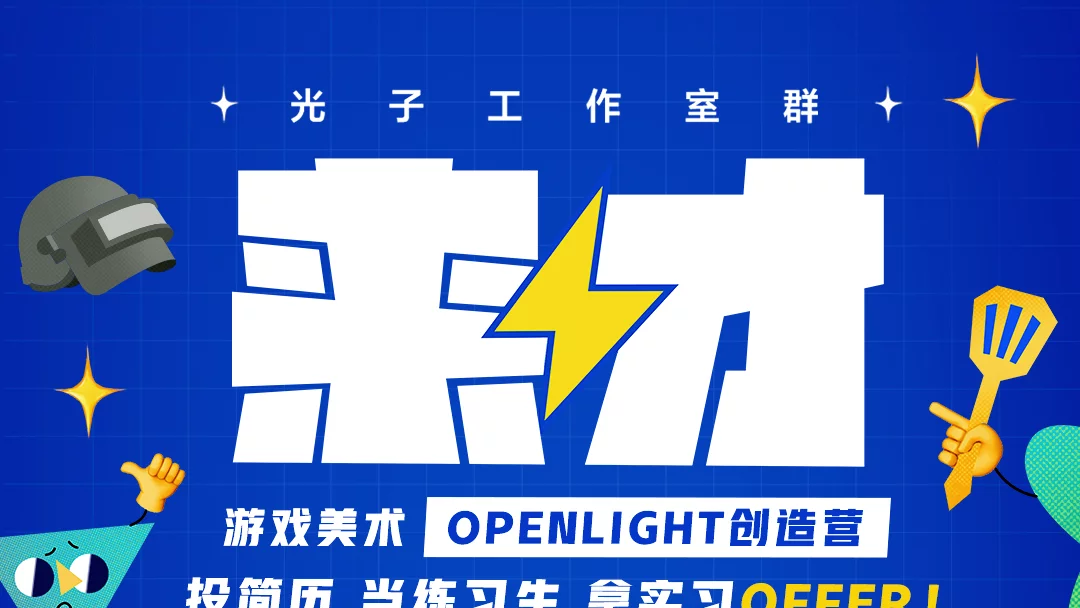
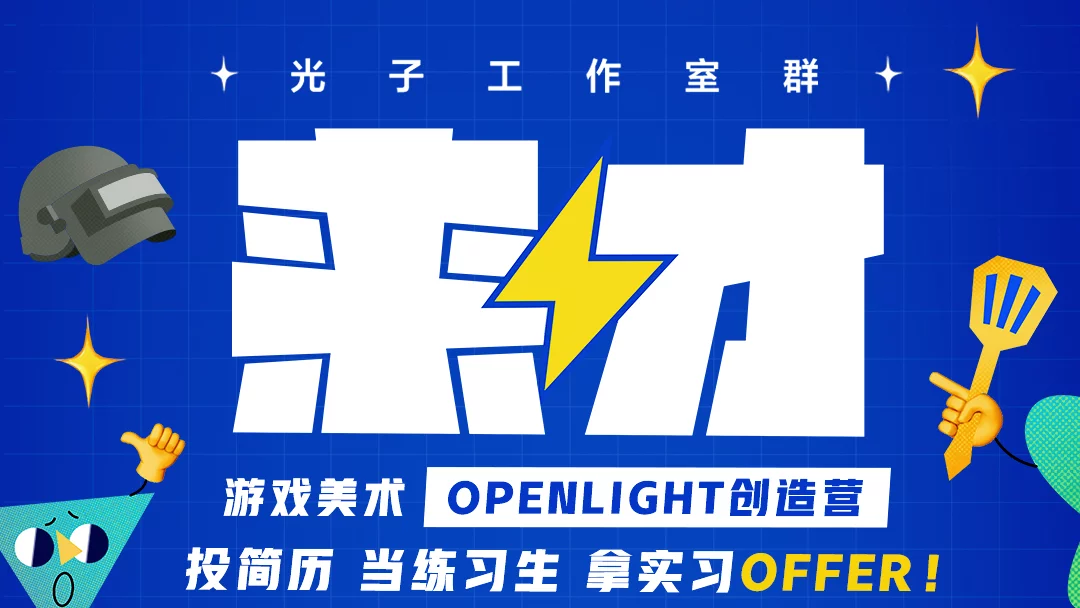
refactor: 全屏按钮拦截方案 — 原生按钮留在原位，点击=网页全屏
- 移除⛶自定义按钮，原生全屏按钮恢复原位
- 拦截fullscreenchange事件：浏览器全屏→立即退出→打开网页全屏弹窗
- 裁剪截图y=180

diff --git a/js/main.js b/js/main.js
@@ -42,7 +42,7 @@
       var html = '<article class="work-card work-card-h">'+
         '<span class="work-cat">'+CAT_LABEL[w.cat]+'</span>';
       if (hasFile){
-        html += '<div class="work-video-wrap"><video src="'+w.file+'" controls controlsList="nofullscreen" preload="metadata" poster="'+w.poster+'"></video><button class="video-expand-btn" title="网页全屏" aria-label="网页全屏">⛶</button></div>';
+        html += '<div class="work-video-wrap"><video src="'+w.file+'" controls preload="metadata" poster="'+w.poster+'"></video></div>';
       } else {
         html += '<div class="work-thumb-empty">视频制作中，稍后上线</div>';
       }
@@ -113,23 +113,34 @@
     else openLightboxAt(w);
   }
 
-  /* ---------- 视频展开 → 网页全屏弹窗 ---------- */
-  document.addEventListener("click", function(e){
-    var btn = e.target.closest(".video-expand-btn");
-    if (!btn) return;
-    e.stopPropagation();
-    var container = btn.closest(".work-video-wrap, .project-thumb");
-    if (!container) return;
-    var video = container.querySelector("video");
-    if (!video || !video.src) return;
-    // 找标题
-    var title = "";
-    var card = btn.closest(".work-card-h, .project-card");
-    if (card) {
-      var t = card.querySelector(".work-title, h4");
-      if (t) title = t.textContent.trim();
+  /* ---------- 原生全屏按钮 → 拦截为网页全屏 ---------- */
+  document.addEventListener("fullscreenchange", function(){
+    var el = document.fullscreenElement;
+    if (el && el.tagName === "VIDEO") {
+      document.exitFullscreen().then(function(){
+        var title = "";
+        var card = el.closest(".work-card-h, .project-card");
+        if (card) {
+          var t = card.querySelector(".work-title, h4");
+          if (t) title = t.textContent.trim();
+        }
+        openVideoModal(el.src, title);
+      });
     }
-    openVideoModal(video.src, title);
+  });
+  // Safari 兼容
+  document.addEventListener("webkitfullscreenchange", function(){
+    var el = document.webkitFullscreenElement;
+    if (el && el.tagName === "VIDEO") {
+      document.webkitExitFullscreen();
+      var title = "";
+      var card = el.closest(".work-card-h, .project-card");
+      if (card) {
+        var t = card.querySelector(".work-title, h4");
+        if (t) title = t.textContent.trim();
+      }
+      openVideoModal(el.src, title);
+    }
   });
 
   function openVideoModal(src, title){

diff --git a/css/style.css b/css/style.css
@@ -230,18 +230,6 @@ ul{list-style:none}
 .work-card-h{display:flex;gap:28px;align-items:flex-start}
 .work-video-wrap{flex-shrink:0;width:58%;border-radius:12px;overflow:hidden;background:#000;position:relative}
 .work-video-wrap video{width:100%;display:block}
-/* 视频展开按钮（作品区 + 项目区通用） */
-.video-expand-btn{
-  position:absolute;bottom:40px;right:10px;z-index:10;
-  width:34px;height:34px;border-radius:8px;border:1px solid rgba(255,255,255,.25);
-  background:rgba(0,0,0,.55);color:#fff;font-size:16px;cursor:pointer;
-  display:flex;align-items:center;justify-content:center;
-  transition:background .25s,border-color .25s;
-  -webkit-backdrop-filter:blur(4px);backdrop-filter:blur(4px);
-}
-.video-expand-btn:hover{background:var(--accent);color:#14100a;border-color:var(--accent)}
-/* 彻底隐藏浏览器原生全屏按钮 */
-video::-webkit-media-controls-fullscreen-button{display:none !important}
 .work-card-h .work-info{flex:1;padding:8px 0}
 .work-card{
   position:relative;border-radius:16px;overflow:hidden;cursor:pointer;

diff --git a/index.html b/index.html
@@ -116,8 +116,7 @@
   <div class="projects-grid">
     <article class="project-card reveal">
       <div class="project-thumb" style="background:linear-gradient(135deg,#2a1f0e,#3d2b14,#1a0f00)">
-        <video class="project-thumb-video" src="assets/videos/project-dream-maker.mp4" controls controlsList="nofullscreen" preload="metadata" poster="assets/images/poster-dream-maker.webp"></video>
-        <button class="video-expand-btn" title="网页全屏" aria-label="网页全屏">⛶</button>
+        <video class="project-thumb-video" src="assets/videos/project-dream-maker.mp4" controls preload="metadata" poster="assets/images/poster-dream-maker.webp"></video>
       </div>
       <div class="project-body">
         <div class="project-head">
